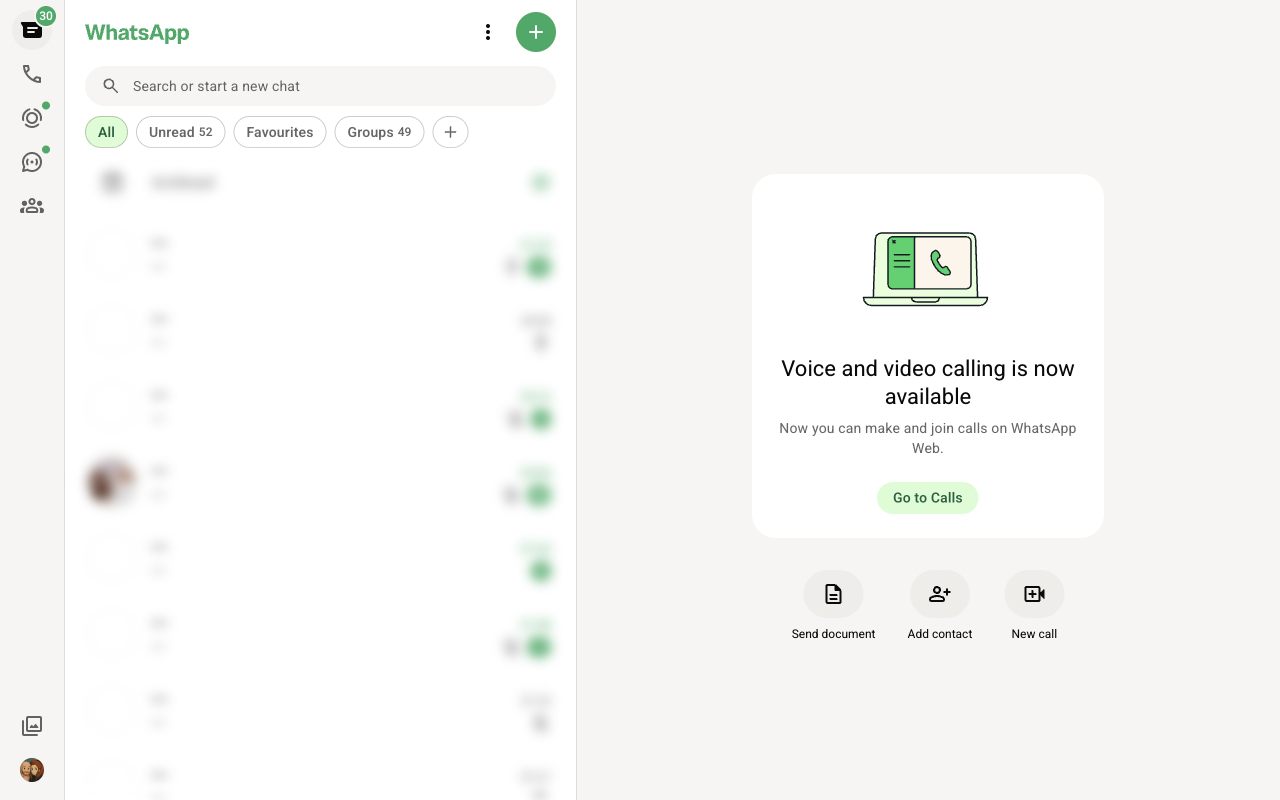
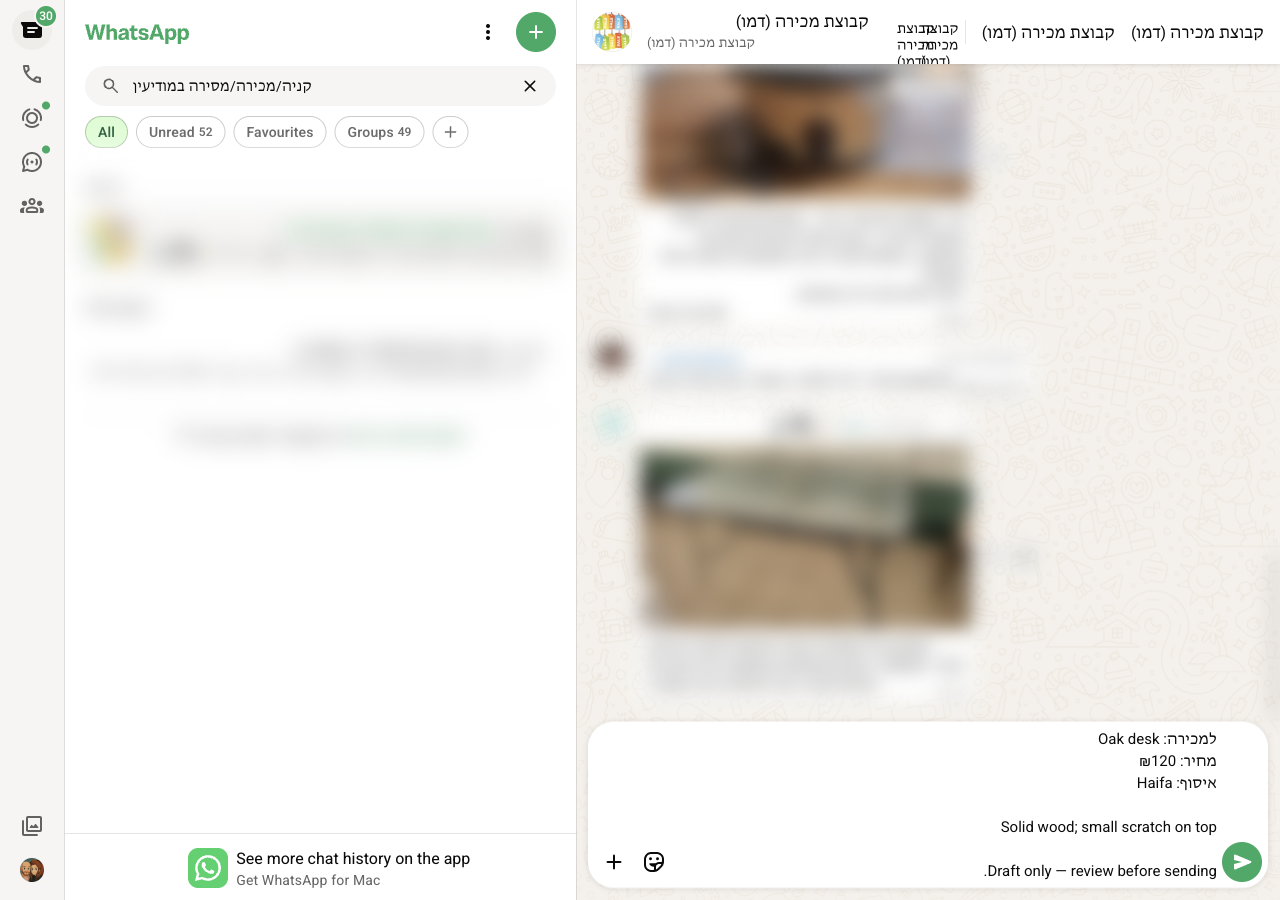
Show real listing content in all platform demo screenshots.
WhatsApp capture requires compose_ready with SHARK_DEMO_WA_TO, blurs chat list while keeping the drafted message visible; Facebook and Yad2 frames highlight filled fields.

diff --git a/README.md b/README.md
@@ -25,9 +25,9 @@ Browser tabs after the same run (dry-run — nothing published or sent):
 
 | Facebook Marketplace | WhatsApp Web | Yad2 |
 |---------------------|--------------|------|
-| ![Facebook create listing filled](assets/shark-browser-facebook.png) | ![WhatsApp session ready (chat list redacted for demos)](assets/shark-browser-whatsapp.png) | ![Yad2 product details filled](assets/shark-browser-yad2.png) |
+| ![Facebook create listing filled](assets/shark-browser-facebook.png) | ![WhatsApp draft in composer (chat list blurred)](assets/shark-browser-whatsapp.png) | ![Yad2 product details filled](assets/shark-browser-yad2.png) |
 
-WhatsApp: pass `--wa-to "Exact chat name"` to paste the draft into that chat’s composer; without it, `fill` leaves Web ready and prints `session_ready`.
+WhatsApp: pass `--wa-to "Exact chat name"` to paste the draft into that chat’s composer (same text as `buildWhatsAppMessage` — למכירה, מחיר, איסוף). Demo screenshots require `SHARK_DEMO_WA_TO` when re-capturing; the sidebar is blurred and the header shows a generic label.
 
 Quick draft-only demo (no browser):
 
@@ -136,7 +136,7 @@ With Shark Chrome logged in to Facebook, WhatsApp, and Yad2:
 ```bash
 sh assets/record-demo-browser.sh          # smoke run (all three platforms)
 # Optional: paste draft into a real chat for the WhatsApp screenshot
-export SHARK_DEMO_WA_TO="Exact WhatsApp chat name"
+export SHARK_DEMO_WA_TO="Exact WhatsApp sidebar title (e.g. your selling group)"
 asciinema rec -c "sh assets/record-demo-browser.sh" --overwrite assets/shark-browser.cast
 agg assets/shark-browser.cast assets/shark-browser.gif
 ffmpeg -i assets/shark-browser.gif -movflags faststart -pix_fmt yuv420p assets/shark-browser.mp4
